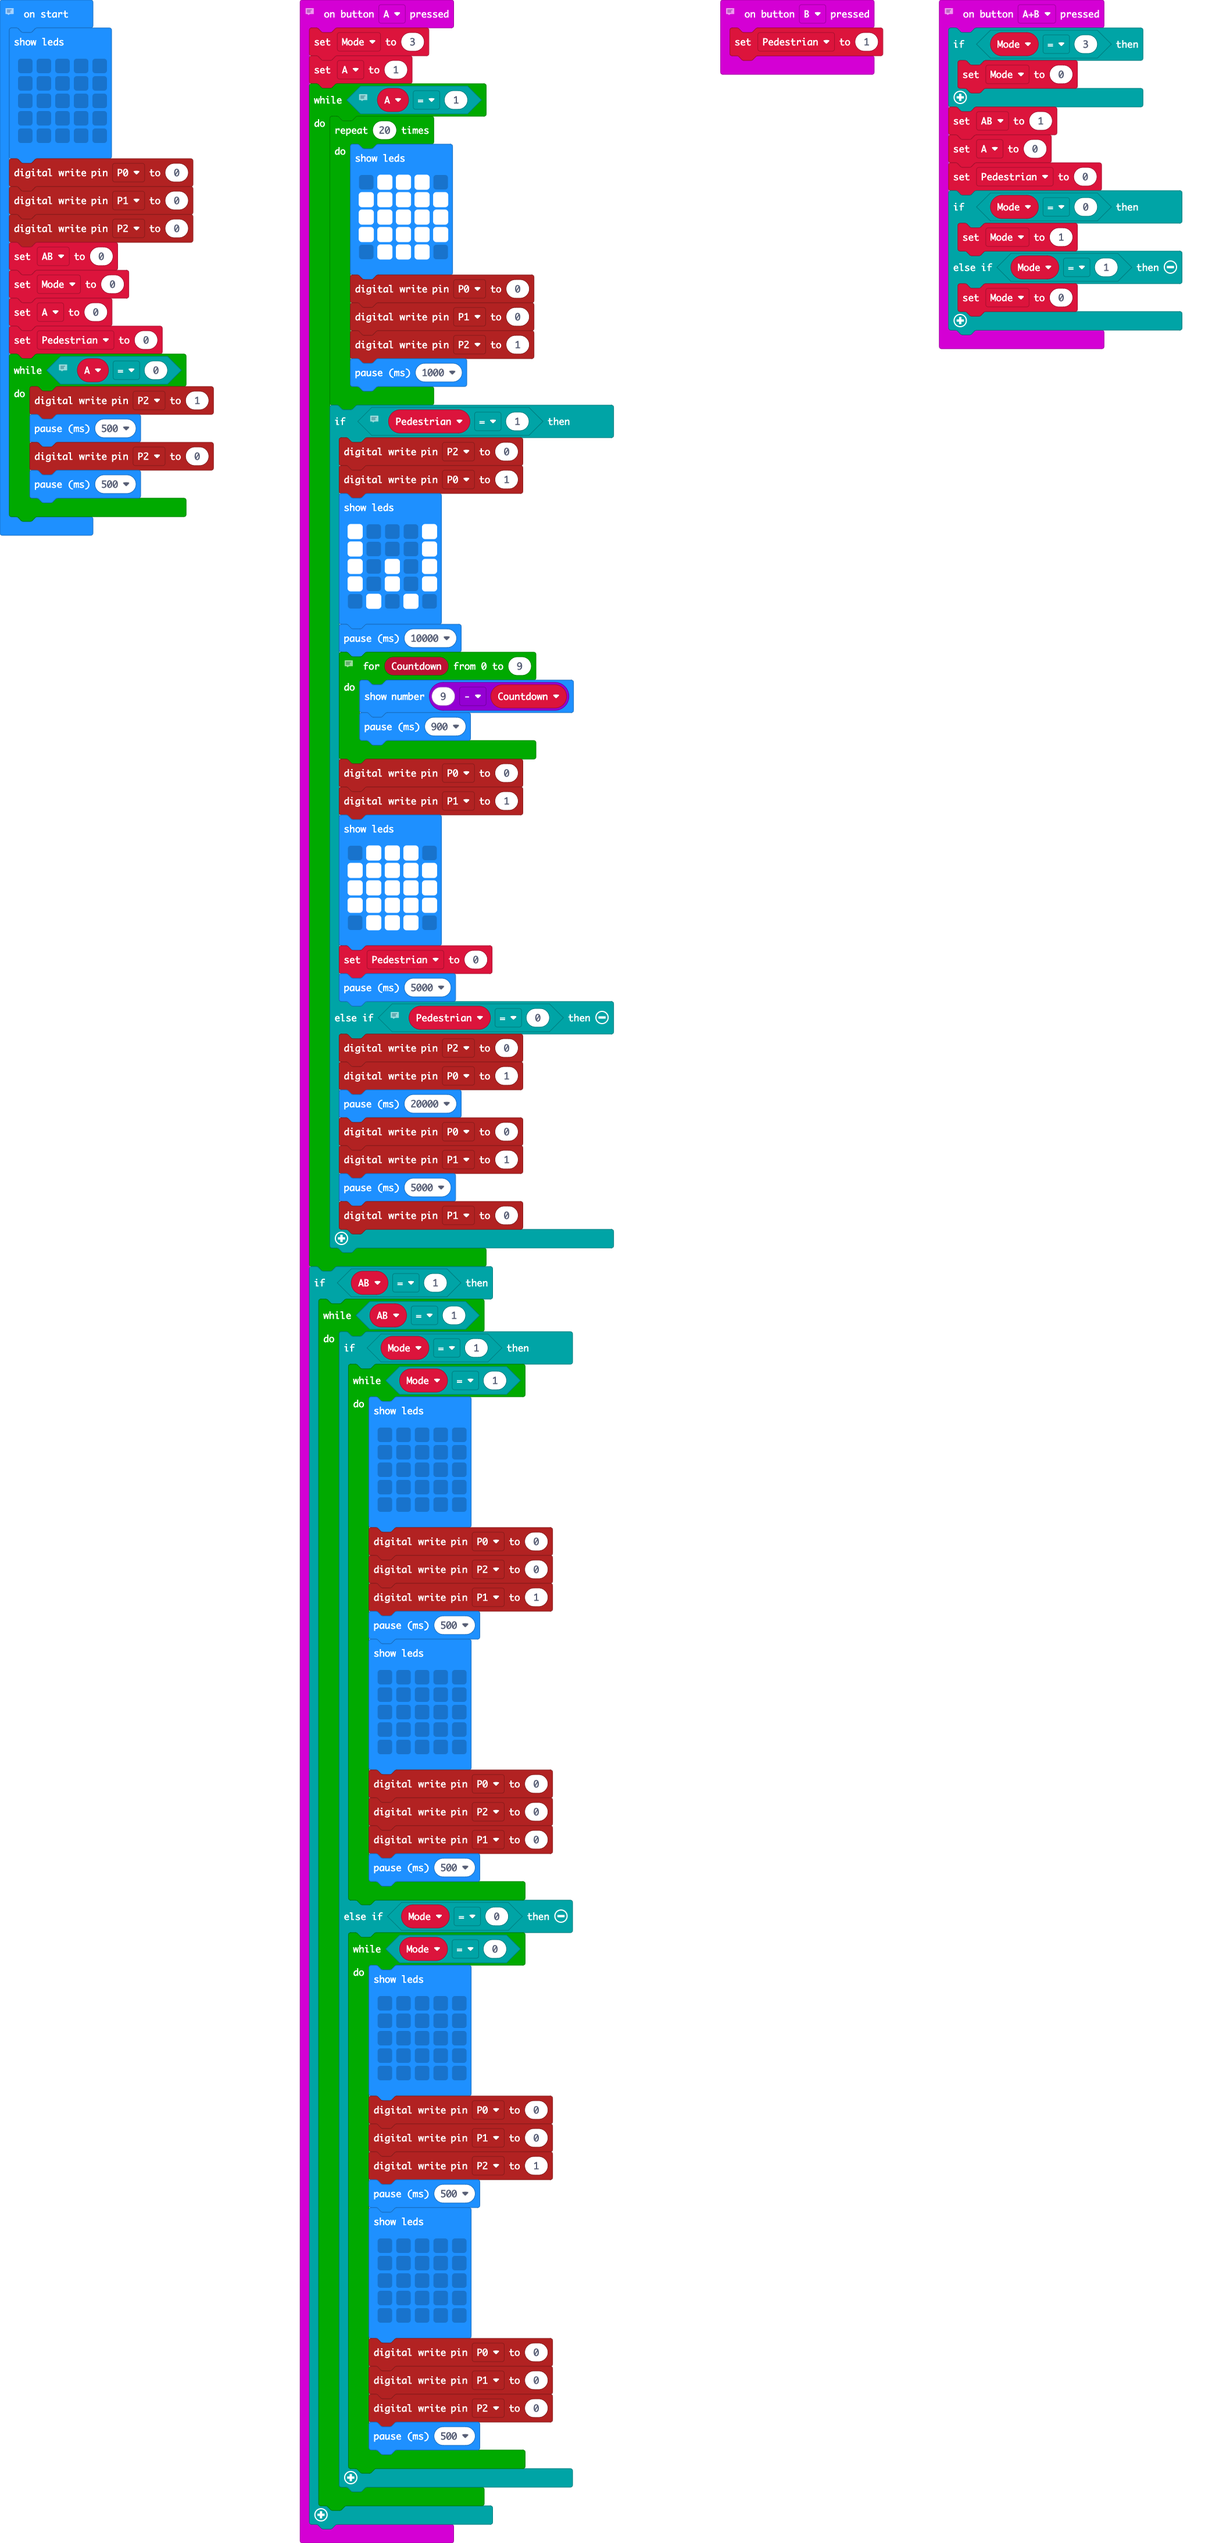
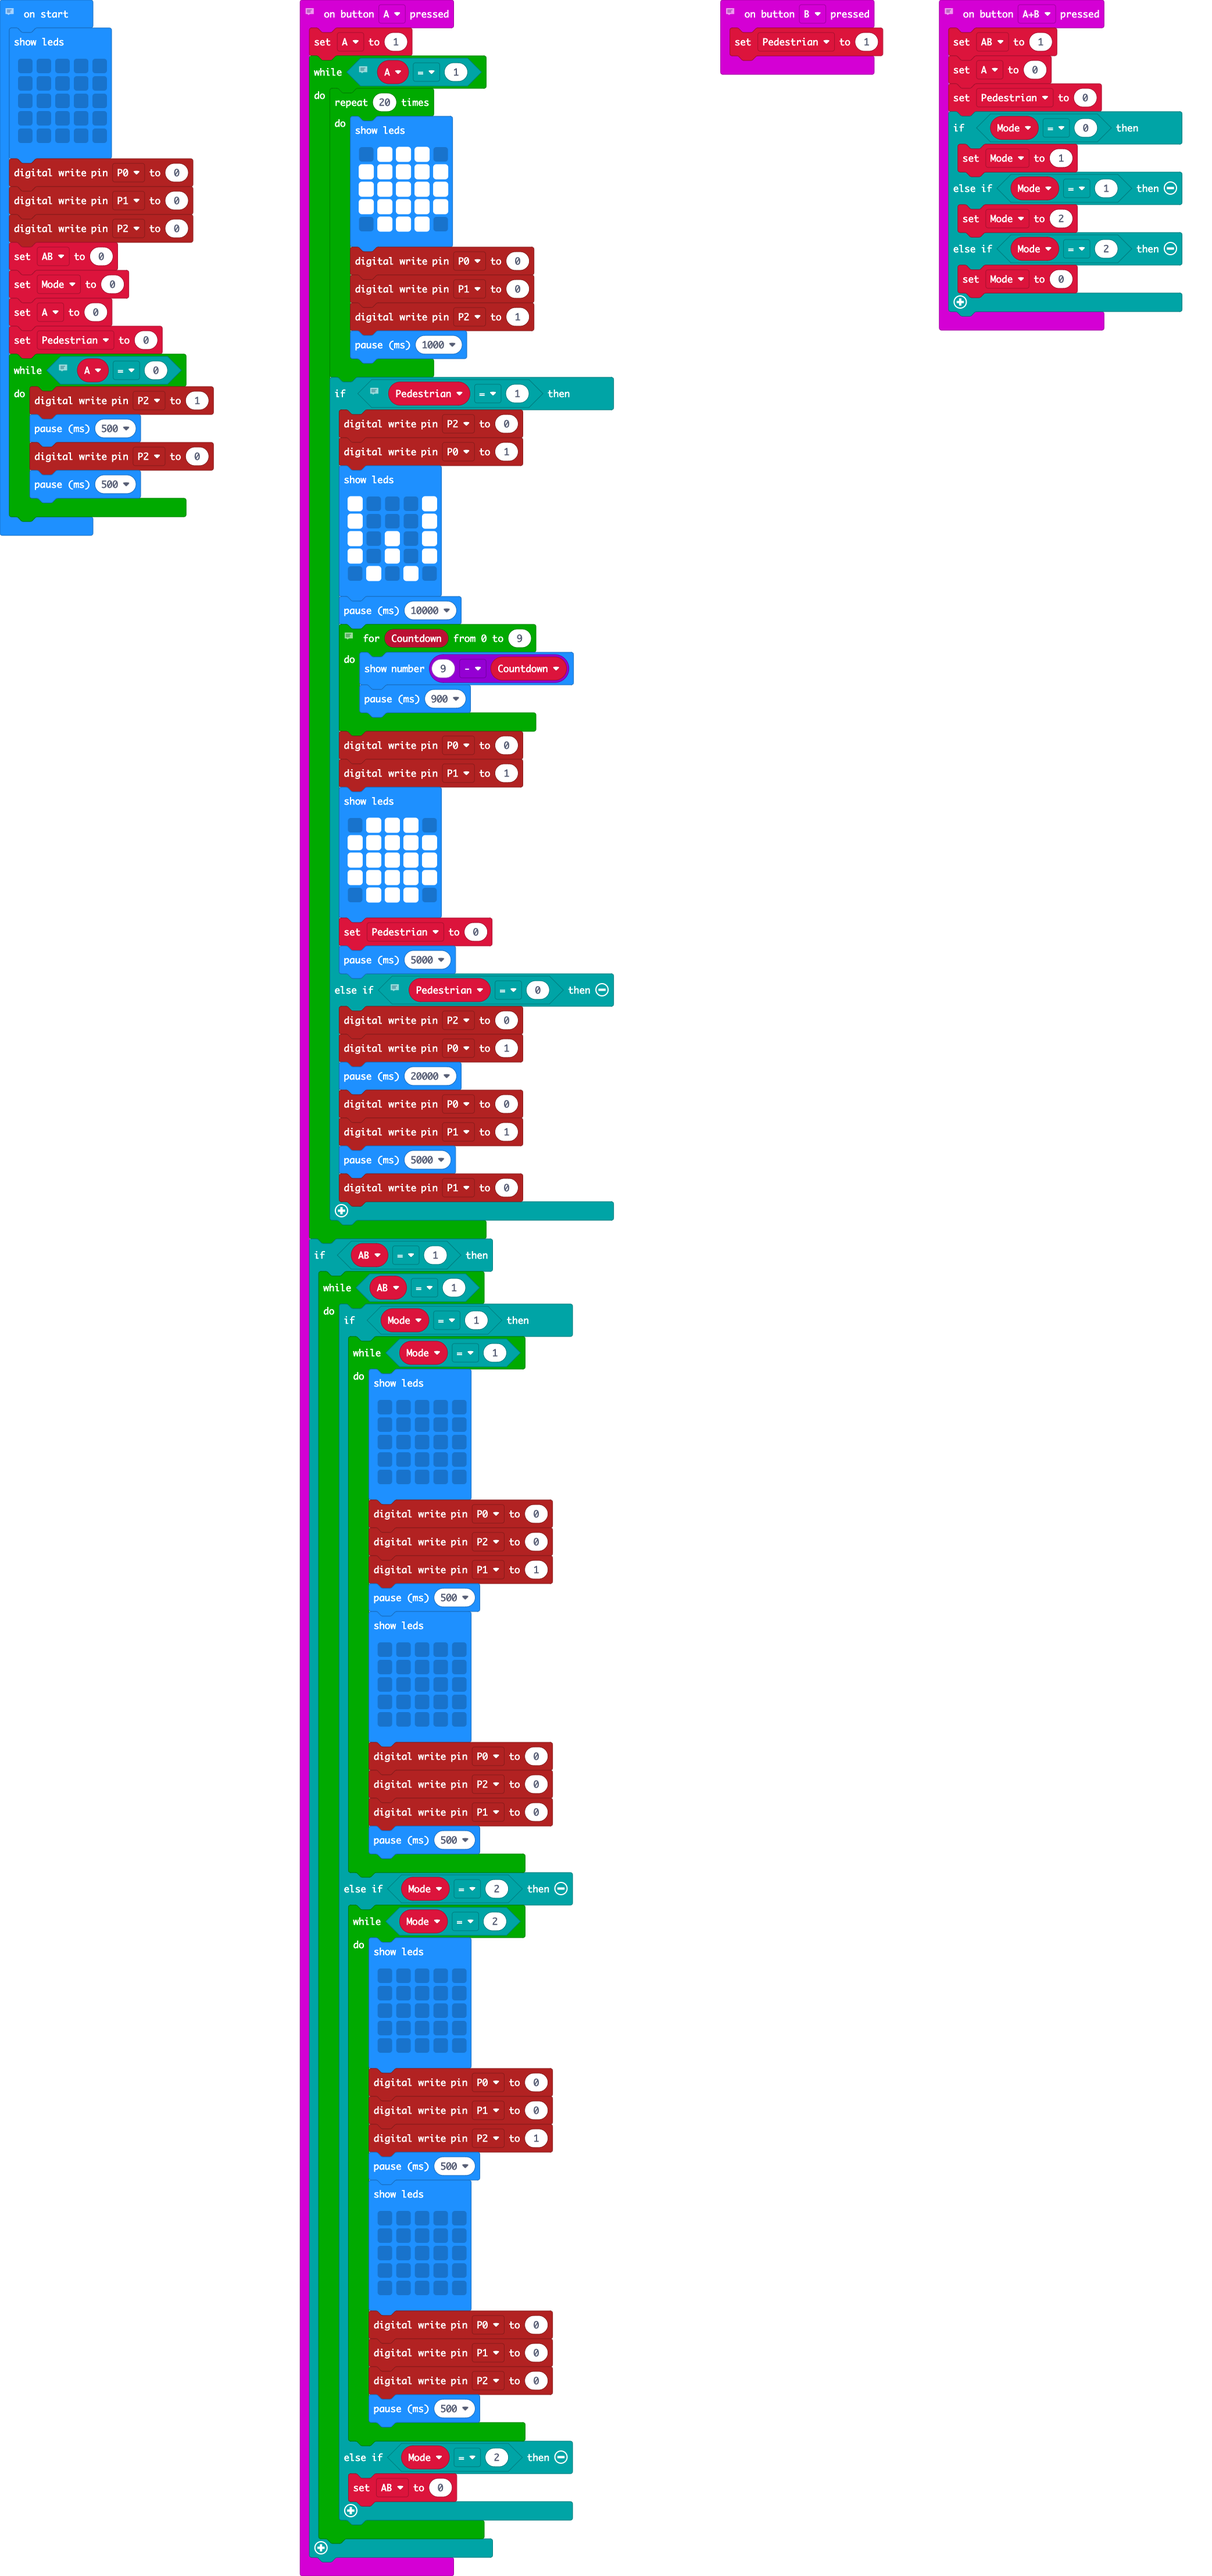
Update main.blocks, main.ts

diff --git a/main.ts b/main.ts
@@ -1,6 +1,5 @@
 // Once A is pressed the program begins.
 input.onButtonPressed(Button.A, function () {
-    Mode = 3
     A = 1
     // Restarts the program if uninterrupted.
     while (A == 1) {
@@ -83,8 +82,8 @@ input.onButtonPressed(Button.A, function () {
                     pins.digitalWritePin(DigitalPin.P1, 0)
                     basic.pause(500)
                 }
-            } else if (Mode == 0) {
-                while (Mode == 0) {
+            } else if (Mode == 2) {
+                while (Mode == 2) {
                     basic.showLeds(`
                         . . . . .
                         . . . . .
@@ -108,21 +107,22 @@ input.onButtonPressed(Button.A, function () {
                     pins.digitalWritePin(DigitalPin.P2, 0)
                     basic.pause(500)
                 }
+            } else if (Mode == 2) {
+                AB = 0
             }
         }
     }
 })
 // Changes between flashing red and flashing yellow.
 input.onButtonPressed(Button.AB, function () {
-    if (Mode == 3) {
-        Mode = 0
-    }
     AB = 1
     A = 0
     Pedestrian = 0
     if (Mode == 0) {
         Mode = 1
     } else if (Mode == 1) {
+        Mode = 2
+    } else if (Mode == 2) {
         Mode = 0
     }
 })
